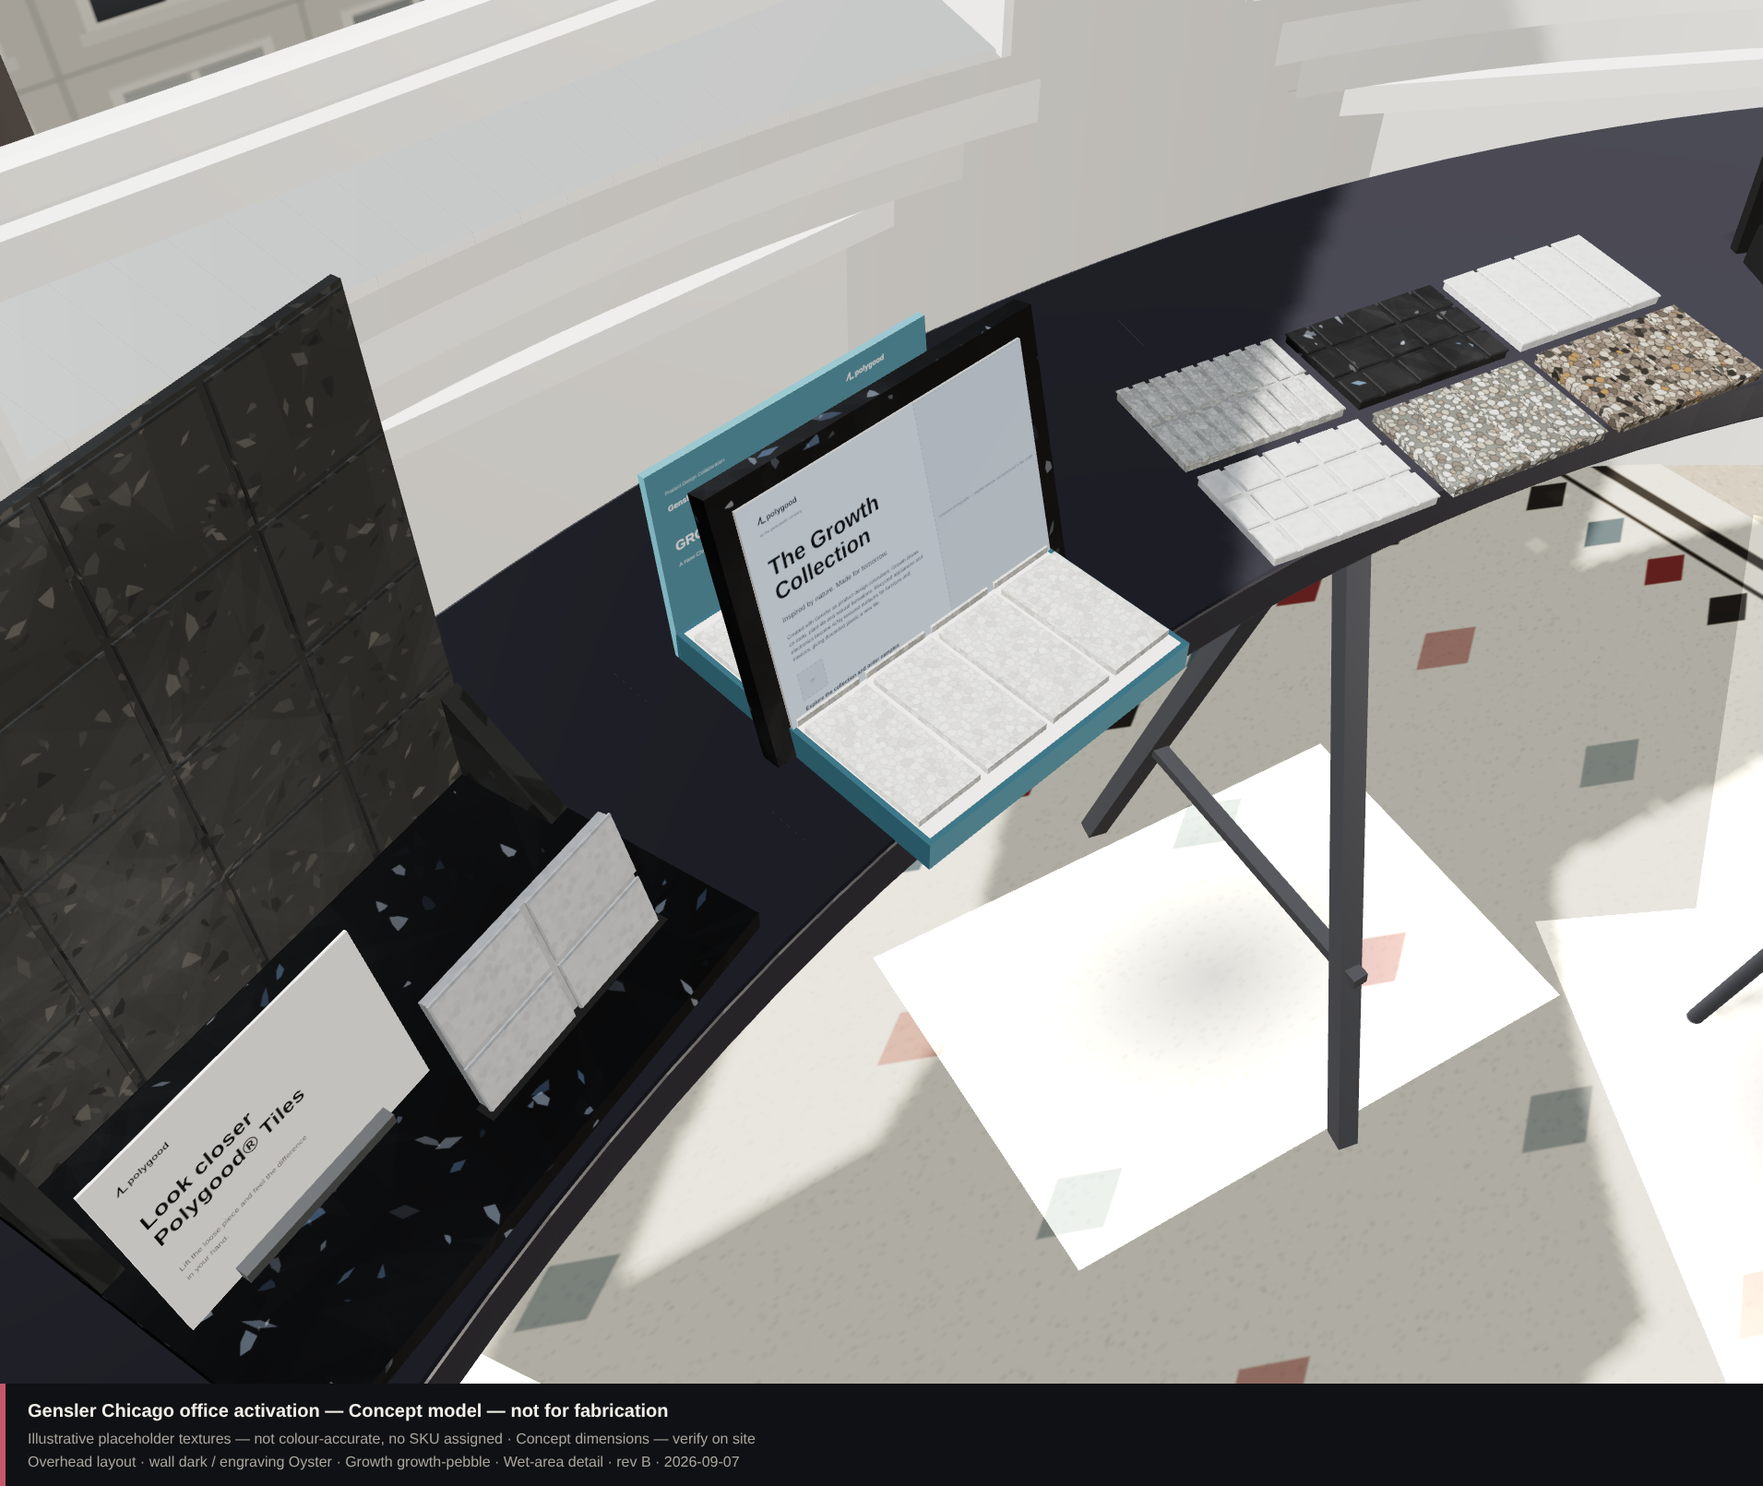
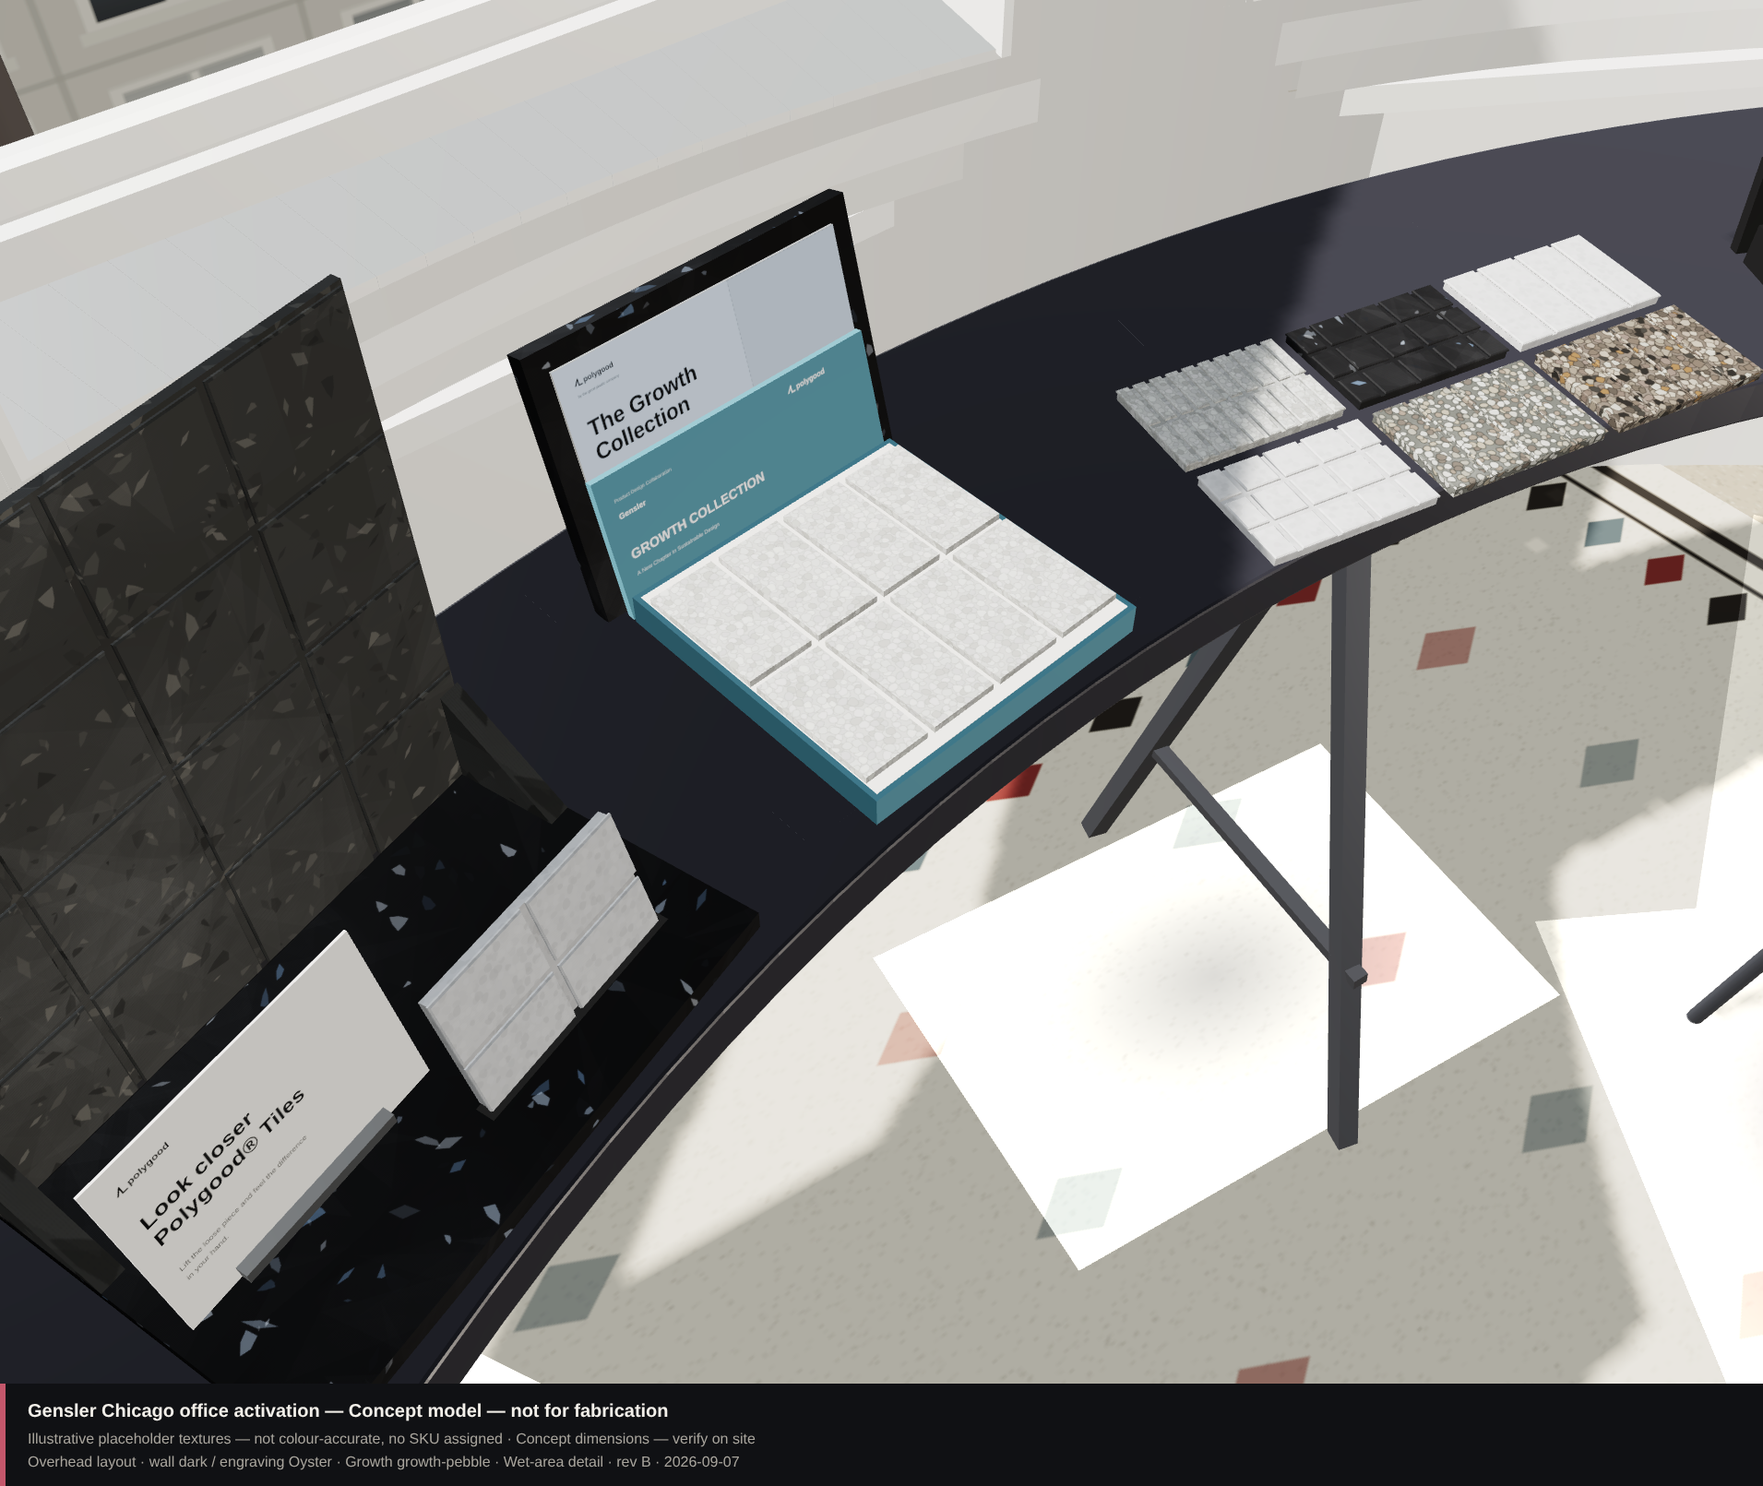
Fix the collaboration box passing through the Growth A4 plate
The box was placed at a typed-in offset scaled against the old 150 mm-deep
box. At its confirmed 300 x 300 it drove straight through the A4 plate, which
is what shows in the render.

The arithmetic says why: a 300 mm tray puts its own lid 150 mm behind its own
centre, and the lid then has to clear the plate. With the holder centred in a
300 mm zone, the tray's front edge would have landed 685 mm back from the
unit's front - half a metre past the counter.

Three changes, and it fits:
- The A4 holder stands at the BACK of its zone, gusset flush with the back
  edge, instead of centred in it. Centred, it left too little counter in front
  for anything to sit without running into the plate.
- The lid is set out from the plate's own face, leaning at the plate's 15
  degrees and resting against it - as on the planning photograph - rather than
  standing upright at a guessed offset.
- The tray sits immediately in front of the lid's foot.

Growth unit depth is now 425, measured not chosen: 100 holder + 23 lid + 300
tray = 423. Clearances, checked in the unit's own frame: lid to plate face
3.9 mm, lid foot to tray 2.0 mm, tray front to unit front edge 2.7 mm, gusset
flush with the back. At the front edge the unit reaches r = 2485 against the
counter's 2500, so there are 15 mm in hand and no more. It clears the 450 mm
counter but does exceed the 400 mm activeDepth the rest of the composition
works to.

The lid is 135 tall, not the 190 first assumed. On the photograph its top edge
[…]

Changed region(s): [[0.2779, 0.1241, 0.6175, 0.5276], [0.494, 0.4035, 0.6792, 0.5897]]

diff --git a/spaces/gensler-chicago-activation/dist/index.html b/spaces/gensler-chicago-activation/dist/index.html
@@ -394,18 +394,29 @@ window.PG_CONFIG = {
     introStand:  { unit: { width: 430, depth: 210 }, artwork: null },
     /* INSTALLATION display — the Growth Collection, set back beside the
        installation, with the collaboration box in front of it. */
-    growthStand: { unit: { width: 470, depth: 300 }, artwork: null },
+    /* 425 deep, not 300. The A4 holder needs 100 at the back (90 gusset +
+       plate), the lid rests against the plate face, and the 300 mm tray sits
+       in front of the lid's foot: 100 + 23 + 300 = 423, taken to 425. At 300
+       the box ran straight through the plate. This is measured, not chosen —
+       change the box depth or the lean and it has to be recomputed. It clears
+       the 450 mm counter, and the fit check reports the deepest unit. */
+    growthStand: { unit: { width: 470, depth: 425 }, artwork: null },
 
-    /* The small Growth/Gensler collaboration box. "3 x 3" as stated; UNITS AND
-       HEIGHT UNCONFIRMED — read here as inches (76 x 76 mm), the only reading
-       that is both small and able to hold a sample. Shown open with the lid
-       laid flat behind, thin enough not to stand in front of the A4 above it. */
-    /* The Growth / Gensler box, open in front of the Growth A4, lid standing.
-       EXTERNAL DIMENSIONS UNCONFIRMED — these are read off the concept image
-       against the 297 mm A4 behind it. 300 x 300 is CONFIRMED by the client;
-       the height and the chip grid are not. */
+    /* The Growth / Gensler box, open in front of the Growth A4, the lid leaning
+       back against the plate face at the plate's own 15 degrees.
+       300 x 300 is CONFIRMED by the client. The height, the lid height and the
+       chip grid are NOT — they are read off the planning photograph against the
+       297 mm A4 behind it.
+       lidHeight is 135, not the 190 first assumed. On the photograph the lid's
+       top edge sits about halfway up the A4 sheet, leaving the whole "The
+       Growth Collection" headline clear above it; at 190 it covered the
+       headline, and at 170 it still cut the second line. Leaning at 15 degrees
+       a 135 lid stands 130 above the counter, against a sheet whose headline
+       starts at about 142. It does not affect the depth arithmetic — the lid is
+       coplanar with the plate, so its foot sits in the same place whatever its
+       height. */
     collabBox: {
-      width: 300, depth: 300, height: 30, lidThickness: 8, lidHeight: 190,
+      width: 300, depth: 300, height: 30, lidThickness: 8, lidHeight: 135,
       chip: { width: 66, height: 128, gap: 8, cols: 4, rows: 2 },
       shell: '#5b93a3', felt: '#e9e7e1',
       title: 'GROWTH COLLECTION',
@@ -2804,7 +2815,11 @@ function a4Stand(group, unitW, unitD, drawSheet, artwork, seed) {
   applySurface(plateMat, A4.material);
 
   var plate = new THREE.Group();
-  var baseZ = -unitD / 2 + mm(GU.width) / 2;
+  /* The holder stands at the BACK of its zone, gusset flush with the back
+     edge, rather than centred in it. Centred, it left too little counter in
+     front for anything to sit without running into the plate — which is how
+     the collaboration box came to pass through this one. */
+  var baseZ = -unitD + mm(GU.width) + pt / 2;
   plate.position.set(0, top + ph / 2 * Math.cos(lean), baseZ - ph / 2 * Math.sin(lean));
   plate.rotation.x = -lean;
   group.add(plate);
@@ -2849,7 +2864,7 @@ function a4Stand(group, unitW, unitD, drawSheet, artwork, seed) {
   print.position.z = st / 2 + mm(0.5);
   sheet.add(print);
 
-  return { top: footTop, sheet: sheet, trayTop: top };
+  return { top: footTop, sheet: sheet, trayTop: top, baseZ: baseZ, lean: lean };
 }
 
 /* ── LEFT display: the introduction ─────────────────────────────────────── */
@@ -2875,7 +2890,19 @@ function a4Stand(group, unitW, unitD, drawSheet, artwork, seed) {
   var shellMat = new THREE.MeshStandardMaterial({ color: srgb(CB.shell), roughness: 0.58, envMapIntensity: 0.3 });
   var feltMat  = new THREE.MeshStandardMaterial({ color: srgb(CB.felt), roughness: 0.95, envMapIntensity: 0.15 });
   var bw = mm(CB.width), bd = mm(CB.depth), bh = mm(CB.height), lt = mm(CB.lidThickness);
-  var boxZ = -mm(95);
+  var lidH = mm(CB.lidHeight);
+
+  /* Set out from the A4 plate it stands in front of, not from a typed-in
+     offset. As on the planning photograph the lid leans back at the plate's
+     own angle and rests against its face, and the tray sits immediately in
+     front of the lid's foot. A 300 mm tray puts its own lid 150 mm behind its
+     centre, so an offset guessed against the old 150-deep box drove the whole
+     box straight through the plate. */
+  var lidLean = st.lean;
+  var faceZ = st.baseZ + mm(PL.thickness) / 2 * Math.cos(lidLean);   // plate front face at counter level
+  var lidZ = faceZ + (lt / 2 + mm(4)) * Math.cos(lidLean) - lidH / 2 * Math.sin(lidLean);
+  var lidFootZ = lidZ + lidH / 2 * Math.sin(lidLean) + lt / 2 * Math.cos(lidLean);
+  var boxZ = lidFootZ + mm(2) + bd / 2;
 
   var tray = new THREE.Mesh(new THREE.BoxGeometry(bw, bh, bd), shellMat);
   tray.position.set(0, st.trayTop + bh / 2, boxZ);
@@ -2897,13 +2924,11 @@ function a4Stand(group, unitW, unitD, drawSheet, artwork, seed) {
   }, 4);
   var lidMat = new THREE.MeshStandardMaterial({
     map: PG.cardTexture(THREE, lidC), roughness: 0.72, envMapIntensity: 0.22 });
-  var lidLean = 6 * D2R;
   var lid = new THREE.Group();
-  lid.position.set(0, st.trayTop + mm(CB.lidHeight) / 2 * Math.cos(lidLean),
-                   boxZ - bd / 2 - mm(CB.lidHeight) / 2 * Math.sin(lidLean));
+  lid.position.set(0, st.trayTop + lidH / 2 * Math.cos(lidLean), lidZ);
   lid.rotation.x = -lidLean;
   gGrowth.add(lid);
-  var lidBody = new THREE.Mesh(new THREE.BoxGeometry(bw, mm(CB.lidHeight), lt),
+  var lidBody = new THREE.Mesh(new THREE.BoxGeometry(bw, lidH, lt),
     [shellMat, shellMat, shellMat, shellMat, lidMat, shellMat]);
   lidBody.castShadow = true; lid.add(lidBody);
 
@@ -3114,10 +3139,17 @@ function checkFootprint() {
     text: 'Envelope ' + Math.round(arc) + ' mm along the counter ' + (fits ? '(allocated ' : 'EXCEEDS allocated ') +
           I.allocatedLength + ' mm' + (fits ? ')' : '') });
 
-  var depths = Math.max(I.activeDepth, I.palette.depth);
+  /* the deepest unit is read off the set-out, not from a hand-picked pair:
+     picking two by name silently stopped reporting the Growth stand when the
+     300 mm collaboration box pushed it past both of them */
+  var deepest = 0, deepestName = '';
+  Object.keys(UNITS).forEach(function (k) {
+    if (UNITS[k].d > deepest) { deepest = UNITS[k].d; deepestName = k; }
+  });
+  var depths = Math.round(deepest * 1000);
   var depthOK = depths <= CFG.counter.depthAtActiveZone;
   out.push({ level: depthOK ? 'ok' : 'fail',
-    text: 'Deepest unit ' + depths + ' mm ' + (depthOK ? 'within' : 'EXCEEDS') +
+    text: 'Deepest unit ' + depths + ' mm (' + deepestName + ') ' + (depthOK ? 'within' : 'EXCEEDS') +
           ' counter depth ' + CFG.counter.depthAtActiveZone + ' mm' });
 
   var hit = Object.keys(clash);

diff --git a/spaces/gensler-chicago-activation/installation.js b/spaces/gensler-chicago-activation/installation.js
@@ -859,7 +859,11 @@ function a4Stand(group, unitW, unitD, drawSheet, artwork, seed) {
   applySurface(plateMat, A4.material);
 
   var plate = new THREE.Group();
-  var baseZ = -unitD / 2 + mm(GU.width) / 2;
+  /* The holder stands at the BACK of its zone, gusset flush with the back
+     edge, rather than centred in it. Centred, it left too little counter in
+     front for anything to sit without running into the plate — which is how
+     the collaboration box came to pass through this one. */
+  var baseZ = -unitD + mm(GU.width) + pt / 2;
   plate.position.set(0, top + ph / 2 * Math.cos(lean), baseZ - ph / 2 * Math.sin(lean));
   plate.rotation.x = -lean;
   group.add(plate);
@@ -904,7 +908,7 @@ function a4Stand(group, unitW, unitD, drawSheet, artwork, seed) {
   print.position.z = st / 2 + mm(0.5);
   sheet.add(print);
 
-  return { top: footTop, sheet: sheet, trayTop: top };
+  return { top: footTop, sheet: sheet, trayTop: top, baseZ: baseZ, lean: lean };
 }
 
 /* ── LEFT display: the introduction ─────────────────────────────────────── */
@@ -930,7 +934,19 @@ function a4Stand(group, unitW, unitD, drawSheet, artwork, seed) {
   var shellMat = new THREE.MeshStandardMaterial({ color: srgb(CB.shell), roughness: 0.58, envMapIntensity: 0.3 });
   var feltMat  = new THREE.MeshStandardMaterial({ color: srgb(CB.felt), roughness: 0.95, envMapIntensity: 0.15 });
   var bw = mm(CB.width), bd = mm(CB.depth), bh = mm(CB.height), lt = mm(CB.lidThickness);
-  var boxZ = -mm(95);
+  var lidH = mm(CB.lidHeight);
+
+  /* Set out from the A4 plate it stands in front of, not from a typed-in
+     offset. As on the planning photograph the lid leans back at the plate's
+     own angle and rests against its face, and the tray sits immediately in
+     front of the lid's foot. A 300 mm tray puts its own lid 150 mm behind its
+     centre, so an offset guessed against the old 150-deep box drove the whole
+     box straight through the plate. */
+  var lidLean = st.lean;
+  var faceZ = st.baseZ + mm(PL.thickness) / 2 * Math.cos(lidLean);   // plate front face at counter level
+  var lidZ = faceZ + (lt / 2 + mm(4)) * Math.cos(lidLean) - lidH / 2 * Math.sin(lidLean);
+  var lidFootZ = lidZ + lidH / 2 * Math.sin(lidLean) + lt / 2 * Math.cos(lidLean);
+  var boxZ = lidFootZ + mm(2) + bd / 2;
 
   var tray = new THREE.Mesh(new THREE.BoxGeometry(bw, bh, bd), shellMat);
   tray.position.set(0, st.trayTop + bh / 2, boxZ);
@@ -952,13 +968,11 @@ function a4Stand(group, unitW, unitD, drawSheet, artwork, seed) {
   }, 4);
   var lidMat = new THREE.MeshStandardMaterial({
     map: PG.cardTexture(THREE, lidC), roughness: 0.72, envMapIntensity: 0.22 });
-  var lidLean = 6 * D2R;
   var lid = new THREE.Group();
-  lid.position.set(0, st.trayTop + mm(CB.lidHeight) / 2 * Math.cos(lidLean),
-                   boxZ - bd / 2 - mm(CB.lidHeight) / 2 * Math.sin(lidLean));
+  lid.position.set(0, st.trayTop + lidH / 2 * Math.cos(lidLean), lidZ);
   lid.rotation.x = -lidLean;
   gGrowth.add(lid);
-  var lidBody = new THREE.Mesh(new THREE.BoxGeometry(bw, mm(CB.lidHeight), lt),
+  var lidBody = new THREE.Mesh(new THREE.BoxGeometry(bw, lidH, lt),
     [shellMat, shellMat, shellMat, shellMat, lidMat, shellMat]);
   lidBody.castShadow = true; lid.add(lidBody);
 
@@ -1169,10 +1183,17 @@ function checkFootprint() {
     text: 'Envelope ' + Math.round(arc) + ' mm along the counter ' + (fits ? '(allocated ' : 'EXCEEDS allocated ') +
           I.allocatedLength + ' mm' + (fits ? ')' : '') });
 
-  var depths = Math.max(I.activeDepth, I.palette.depth);
+  /* the deepest unit is read off the set-out, not from a hand-picked pair:
+     picking two by name silently stopped reporting the Growth stand when the
+     300 mm collaboration box pushed it past both of them */
+  var deepest = 0, deepestName = '';
+  Object.keys(UNITS).forEach(function (k) {
+    if (UNITS[k].d > deepest) { deepest = UNITS[k].d; deepestName = k; }
+  });
+  var depths = Math.round(deepest * 1000);
   var depthOK = depths <= CFG.counter.depthAtActiveZone;
   out.push({ level: depthOK ? 'ok' : 'fail',
-    text: 'Deepest unit ' + depths + ' mm ' + (depthOK ? 'within' : 'EXCEEDS') +
+    text: 'Deepest unit ' + depths + ' mm (' + deepestName + ') ' + (depthOK ? 'within' : 'EXCEEDS') +
           ' counter depth ' + CFG.counter.depthAtActiveZone + ' mm' });
 
   var hit = Object.keys(clash);

diff --git a/spaces/gensler-chicago-activation/config.js b/spaces/gensler-chicago-activation/config.js
@@ -184,18 +184,29 @@ window.PG_CONFIG = {
     introStand:  { unit: { width: 430, depth: 210 }, artwork: null },
     /* INSTALLATION display — the Growth Collection, set back beside the
        installation, with the collaboration box in front of it. */
-    growthStand: { unit: { width: 470, depth: 300 }, artwork: null },
+    /* 425 deep, not 300. The A4 holder needs 100 at the back (90 gusset +
+       plate), the lid rests against the plate face, and the 300 mm tray sits
+       in front of the lid's foot: 100 + 23 + 300 = 423, taken to 425. At 300
+       the box ran straight through the plate. This is measured, not chosen —
+       change the box depth or the lean and it has to be recomputed. It clears
+       the 450 mm counter, and the fit check reports the deepest unit. */
+    growthStand: { unit: { width: 470, depth: 425 }, artwork: null },
 
-    /* The small Growth/Gensler collaboration box. "3 x 3" as stated; UNITS AND
-       HEIGHT UNCONFIRMED — read here as inches (76 x 76 mm), the only reading
-       that is both small and able to hold a sample. Shown open with the lid
-       laid flat behind, thin enough not to stand in front of the A4 above it. */
-    /* The Growth / Gensler box, open in front of the Growth A4, lid standing.
-       EXTERNAL DIMENSIONS UNCONFIRMED — these are read off the concept image
-       against the 297 mm A4 behind it. 300 x 300 is CONFIRMED by the client;
-       the height and the chip grid are not. */
+    /* The Growth / Gensler box, open in front of the Growth A4, the lid leaning
+       back against the plate face at the plate's own 15 degrees.
+       300 x 300 is CONFIRMED by the client. The height, the lid height and the
+       chip grid are NOT — they are read off the planning photograph against the
+       297 mm A4 behind it.
+       lidHeight is 135, not the 190 first assumed. On the photograph the lid's
+       top edge sits about halfway up the A4 sheet, leaving the whole "The
+       Growth Collection" headline clear above it; at 190 it covered the
+       headline, and at 170 it still cut the second line. Leaning at 15 degrees
+       a 135 lid stands 130 above the counter, against a sheet whose headline
+       starts at about 142. It does not affect the depth arithmetic — the lid is
+       coplanar with the plate, so its foot sits in the same place whatever its
+       height. */
     collabBox: {
-      width: 300, depth: 300, height: 30, lidThickness: 8, lidHeight: 190,
+      width: 300, depth: 300, height: 30, lidThickness: 8, lidHeight: 135,
       chip: { width: 66, height: 128, gap: 8, cols: 4, rows: 2 },
       shell: '#5b93a3', felt: '#e9e7e1',
       title: 'GROWTH COLLECTION',

diff --git a/spaces/gensler-chicago-activation/README.md b/spaces/gensler-chicago-activation/README.md
@@ -508,6 +508,46 @@ Change any dimension in `config.js` and the check re-runs. Overhang, running pas
 the end of the counter run, or colliding with the credenza are reported as
 failures — the counter is never quietly made deeper.
 
+#### The collaboration box needed 425 mm, not 300
+
+The Growth A4 holder sat centred in a 300 mm zone and the collaboration box was
+placed at a typed-in offset scaled against the **old 150 mm-deep** box. At
+300 × 300 the box drove straight through the A4 plate — a hard intersection,
+plainly visible in the render.
+
+The arithmetic says why. A 300 mm tray puts its own lid **150 mm behind its own
+centre**, and that lid then has to clear the plate. Keeping the holder centred,
+the tray front edge would have landed 685 mm back from the unit's front — half a
+metre past the counter.
+
+Three changes, and it fits:
+
+- The A4 holder now stands at the **back** of its zone, gusset flush with the
+  back edge, not centred in it.
+- The lid is set out **from the plate's own face**, leaning at the plate's 15°
+  and resting against it — which is what the planning photograph shows — rather
+  than standing upright at a guessed offset.
+- The tray sits immediately in front of the lid's foot.
+
+Measured: 100 mm holder + 23 mm lid + 300 mm tray = 423, taken to **425**.
+
+| Clearance | |
+| --- | ---: |
+| Lid to plate face | 3.9 mm |
+| Lid foot to tray | 2.0 mm |
+| Tray front to unit front edge | 2.7 mm |
+| Gusset to unit back edge | flush |
+
+425 mm clears the 450 mm counter, so this one passes. It does exceed the 400 mm
+`activeDepth` the rest of the composition works to, which is worth knowing before
+the counter is measured — at the front edge the unit reaches r = 2485 against the
+counter's 2500, so there are **15 mm** in hand and no more.
+
+The depth check used to read `Math.max(activeDepth, palette.depth)` — two units
+picked by name. It silently stopped reporting the deepest unit the moment the
+Growth stand passed both. It now reads the deepest unit off the set-out and names
+it.
+
 #### Where the counter actually ends: the credenza, not an angle
 
 The check used to call the credenza a fail past **52°** of arc. That number was
